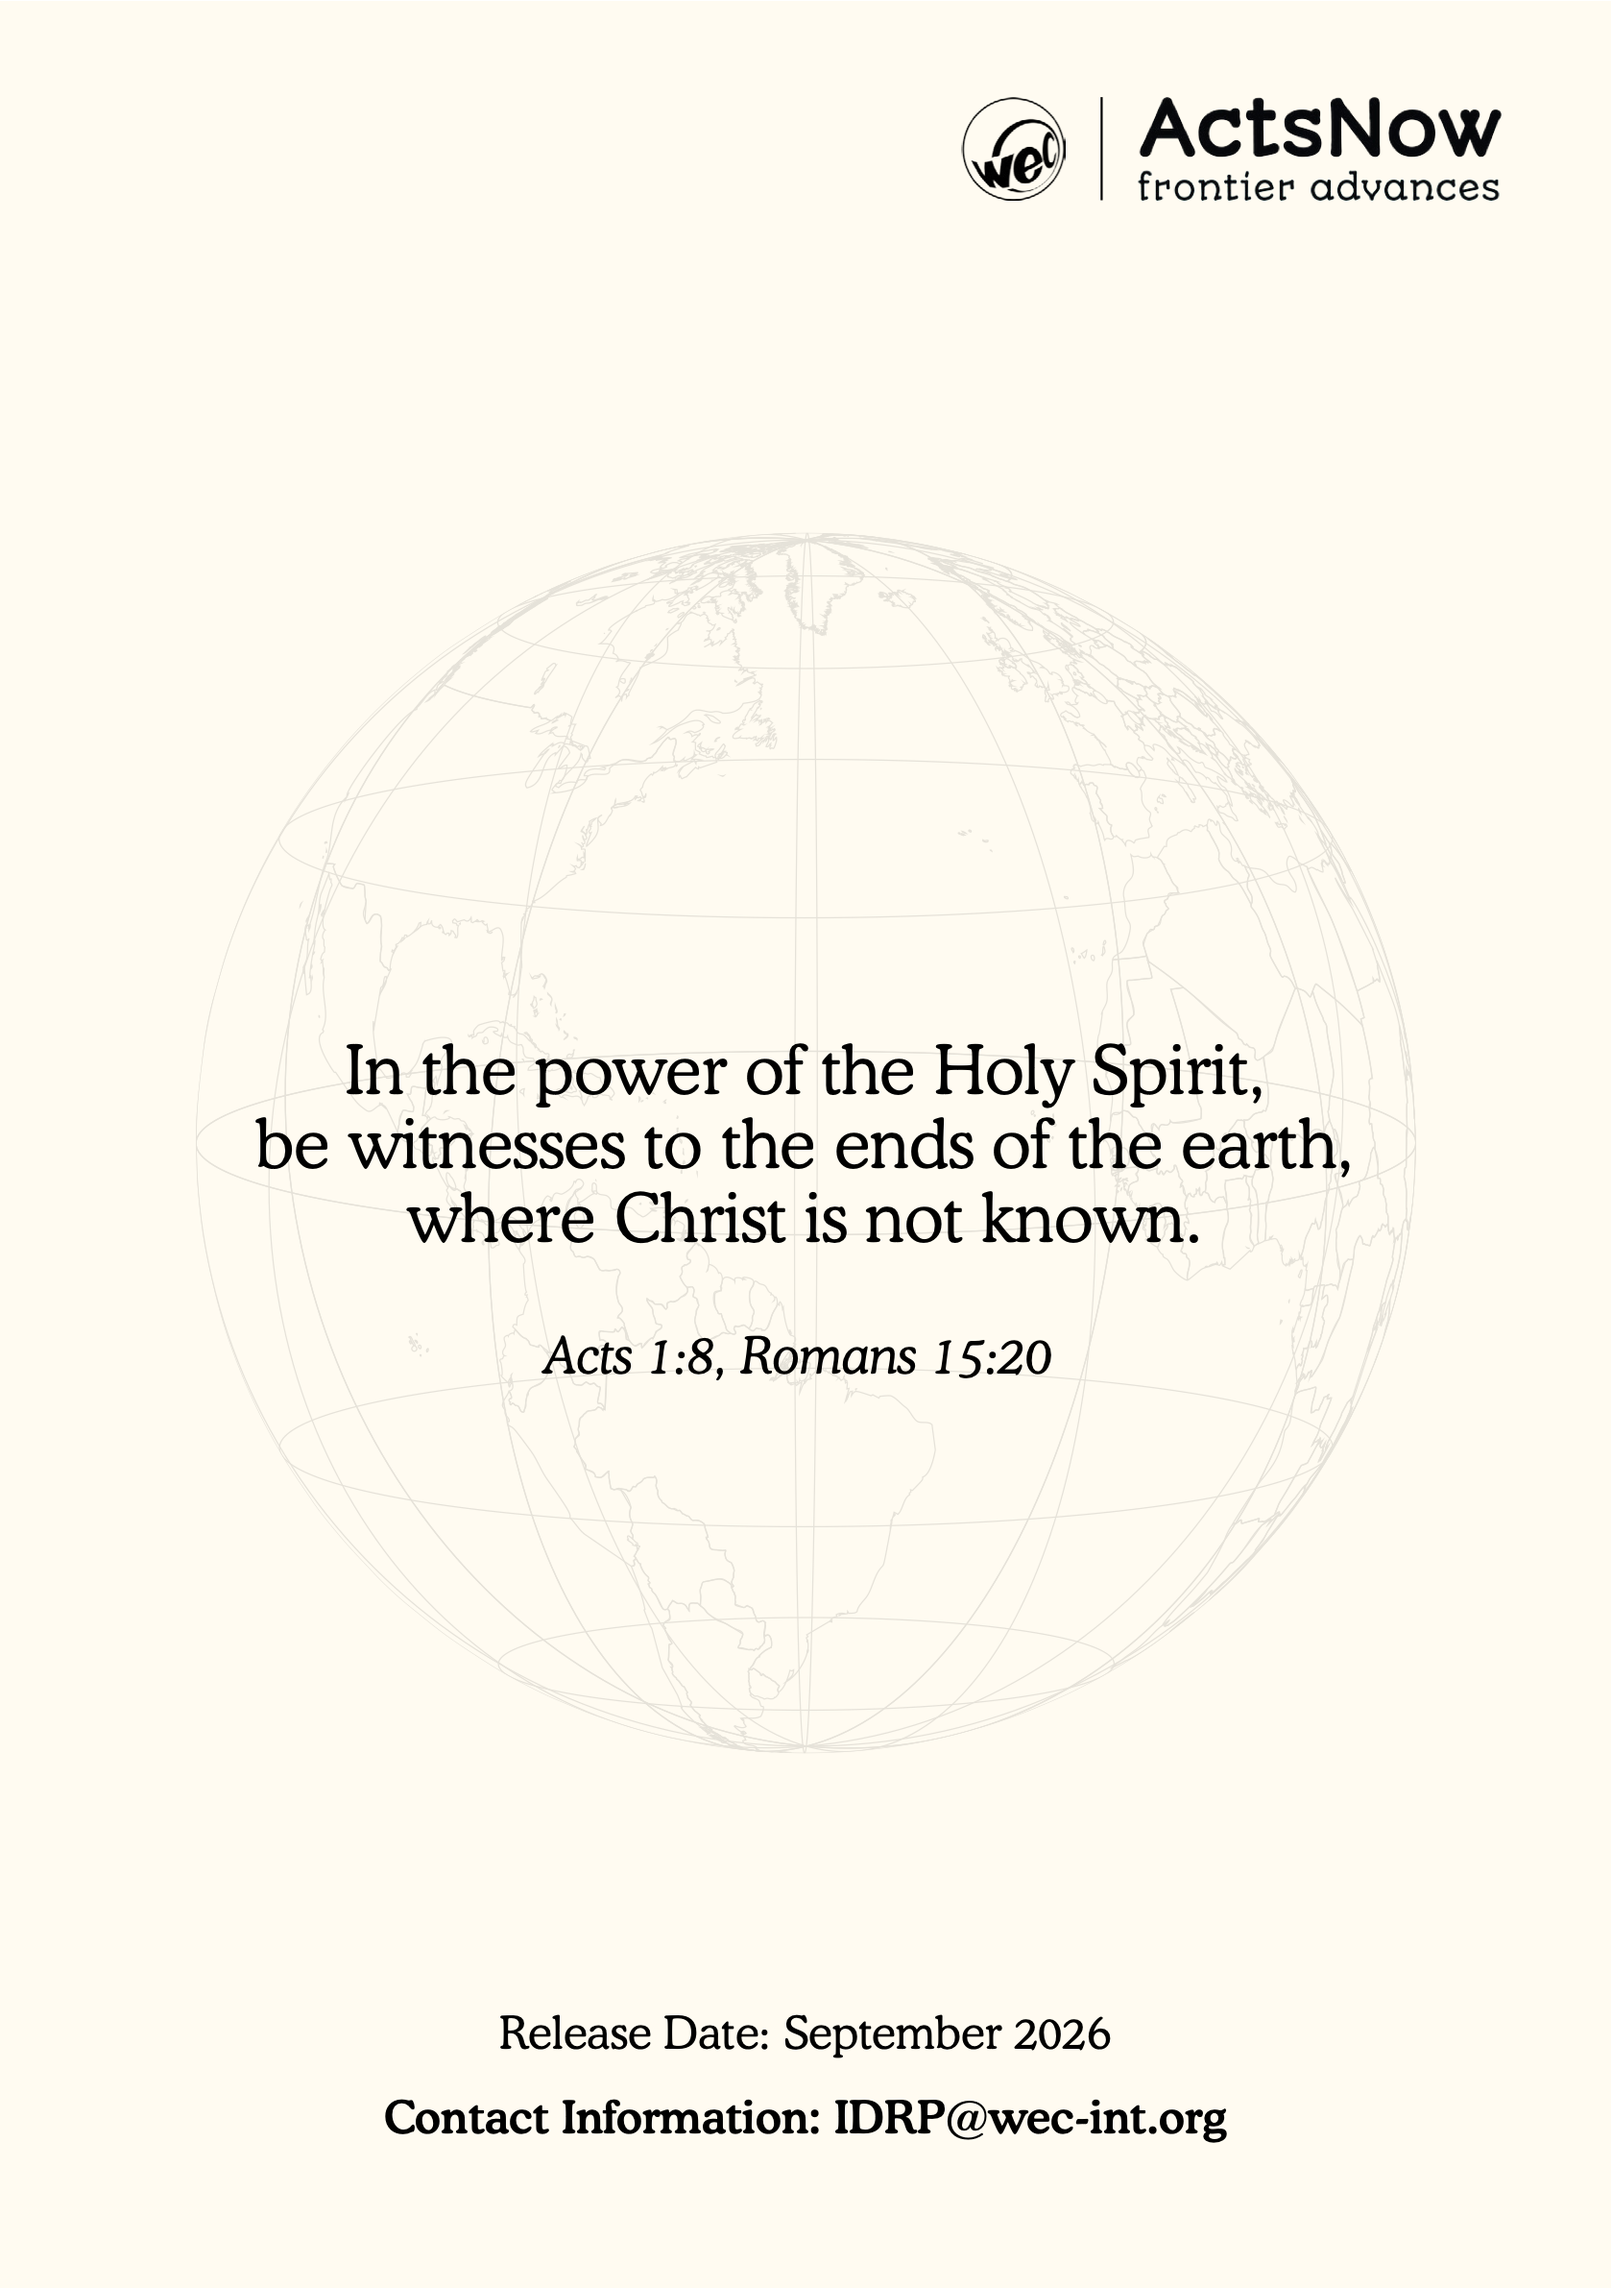
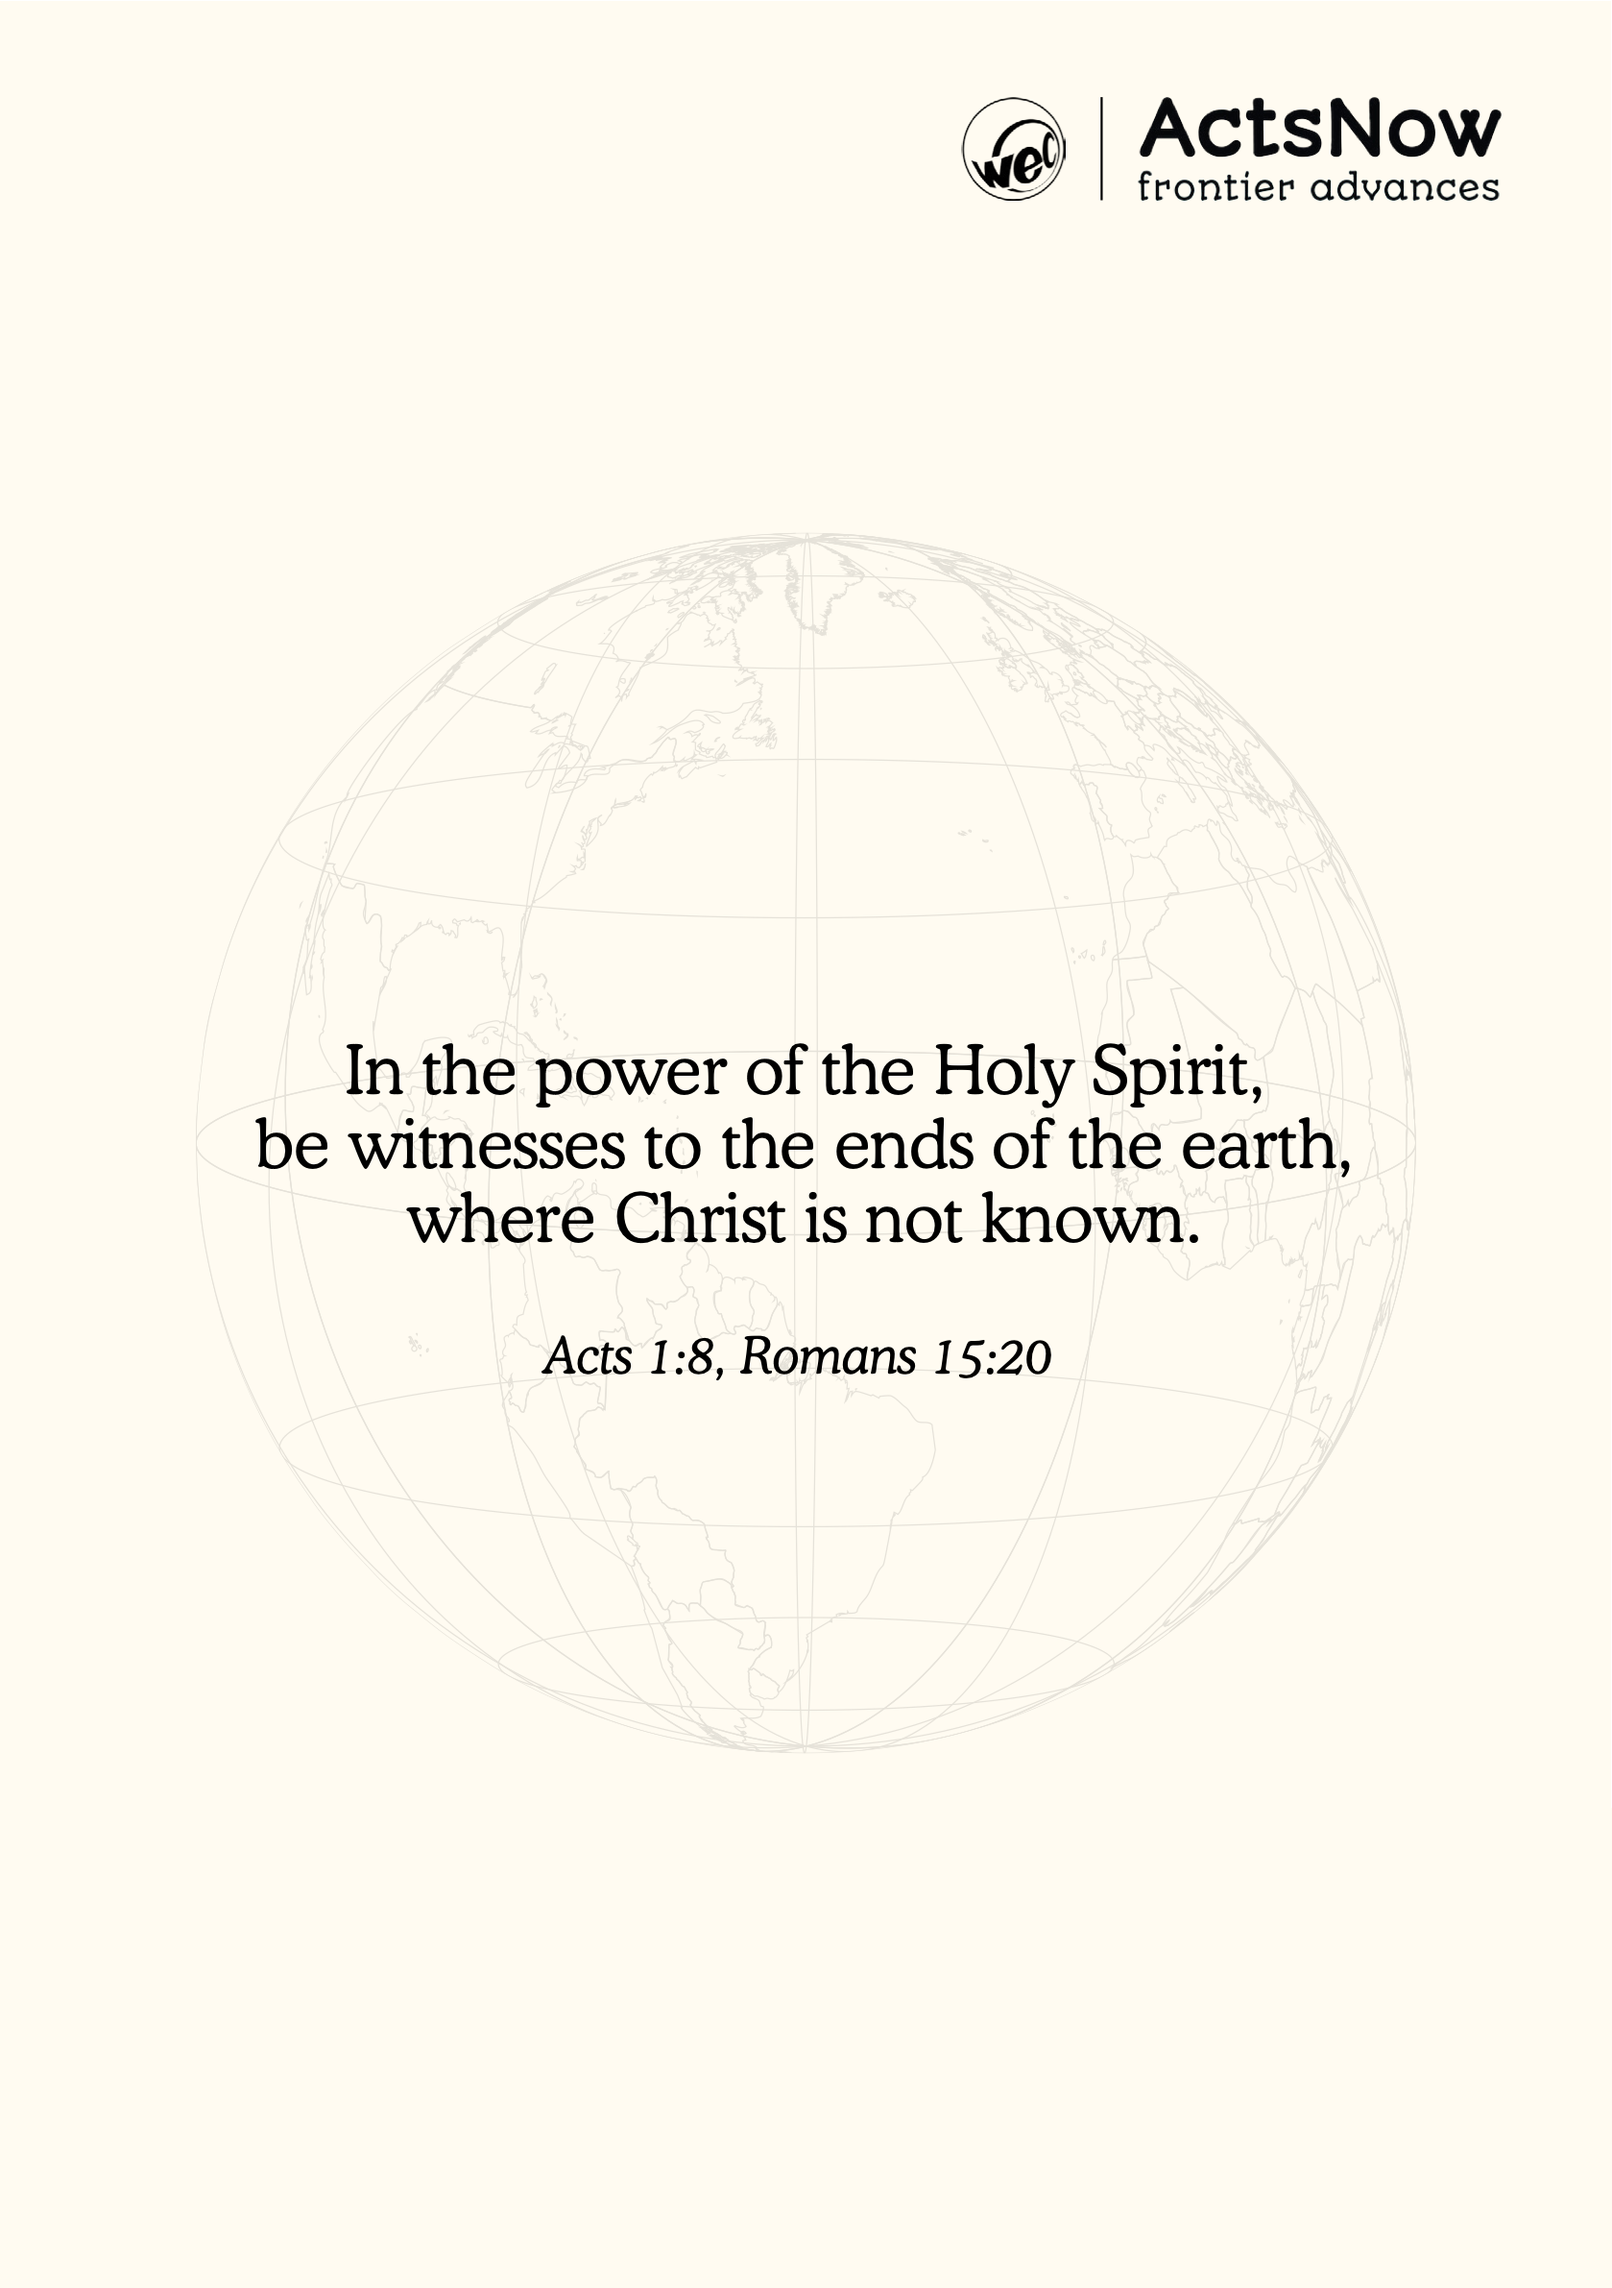
feedback 1

Changed region(s): [[0.2478, 0.8699, 0.7743, 0.932]]

diff --git a/public/styles.css b/public/styles.css
@@ -70,7 +70,7 @@ body {
   font-size: inherit;
   font-weight: 400;
   letter-spacing: .12em;
-  text-transform: uppercase;
+  text-transform: none;
 }
 
 .day-picker,

diff --git a/remove_closing_footers.py b/remove_closing_footers.py
@@ -1,0 +1,24 @@
+#!/usr/bin/env python3
+"""Remove release-date and contact footer bands without changing closing art."""
+
+from pathlib import Path
+
+from PIL import Image, ImageDraw
+
+
+ASSETS = [
+    Path("public/assets/closing-en.png"),
+    Path("public/assets/closing-es.png"),
+    Path("public/assets/closing-ko.png"),
+    Path("public/assets/closing-zh-Hant.png"),
+    Path("public/assets/closing-zh-Hans.png"),
+]
+
+for path in ASSETS:
+    image = Image.open(path).convert("RGBA")
+    # All booklets reserve the lower fifth solely for release and contact copy.
+    start_y = round(image.height * 0.79)
+    background = image.getpixel((16, 16))
+    ImageDraw.Draw(image).rectangle((0, start_y, image.width, image.height), fill=background)
+    image.save(path)
+    print(f"{path}: cleared footer from y={start_y}")
